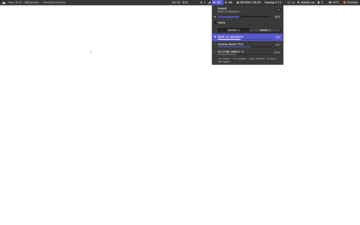
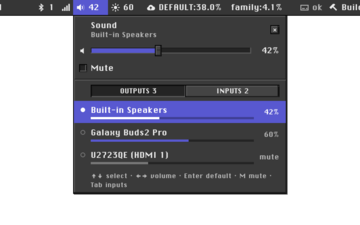
fix(quickshell): finalize picker labels and neutral chrome state

diff --git a/modules/quickshell/shell.qml b/modules/quickshell/shell.qml
@@ -44,7 +44,7 @@ ShellRoot {
 
     // Kamoi Meta+I hides the top bar and the dock together.
     property bool chromeVisible: true
-    property bool topbarAccessVisible: false
+    property bool chromeAccessVisible: false
     // True when SUPER+O R opened the builder menu: its focus ring shows
     // from the start. Any other menu clears it.
     property bool builderKeyboard: false
@@ -53,12 +53,12 @@ ShellRoot {
     // controls, the Super+O chord and the IPC targets below all go
     // through it, so opening one menu closes any other, OCI included.
     function openMenu(name, screen) {
-        root.topbarAccessVisible = false;
+        root.chromeAccessVisible = false;
         MenuState.open(name, screen, -1);
     }
 
     function toggleMenu(name, screen) {
-        root.topbarAccessVisible = false;
+        root.chromeAccessVisible = false;
         MenuState.toggle(name, screen, -1);
     }
 
@@ -70,7 +70,7 @@ ShellRoot {
         target: MenuState
         function onCurrentChanged() {
             if (MenuState.current !== "builder") root.builderKeyboard = false;
-            if (MenuState.current !== "") root.topbarAccessVisible = false;
+            if (MenuState.current !== "") root.chromeAccessVisible = false;
         }
     }
 

diff --git a/modules/quickshell/PlatinumDesktop.qml b/modules/quickshell/PlatinumDesktop.qml
@@ -17,9 +17,9 @@ Scope {
 
     function reveal() {
         context.shell.chromeVisible = true;
-        context.shell.topbarAccessVisible = true;
+        context.shell.chromeAccessVisible = true;
     }
-    function hide() { context.shell.topbarAccessVisible = false; }
+    function hide() { context.shell.chromeAccessVisible = false; }
     function open(control) {
         if (control === "theme") { ThemePicker.open(screen); return; }
         if (!menuMap[control]) return;
@@ -64,7 +64,7 @@ Scope {
         frontWindow: desktop.context.frontWindow
         builderGate: desktop.context.builderGate
         now: desktop.context.now
-        chordVisible: desktop.context.shell.topbarAccessVisible
+        chordVisible: desktop.context.shell.chromeAccessVisible
     }
 
     Component {

diff --git a/modules/quickshell/PlatinumClockMenu.qml b/modules/quickshell/PlatinumClockMenu.qml
@@ -59,7 +59,7 @@ PlatinumMenuFrame {
         Layout.leftMargin: PlatinumTokens.menuTextLeft
         Layout.rightMargin: frame.rightInset
         Layout.topMargin: PlatinumTokens.menuGap
-        text: "PlatinumDesktop theme…"
+        text: "Desktop theme…"
         onClicked: { const screen = MenuState.screen; MenuState.close(); ThemePicker.open(screen); }
     }
 
